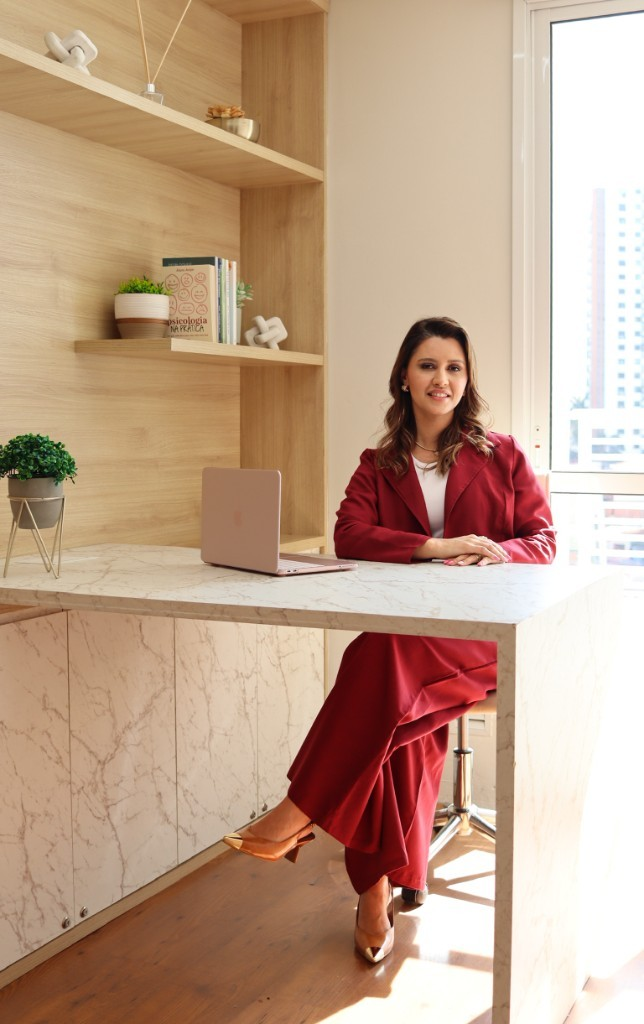
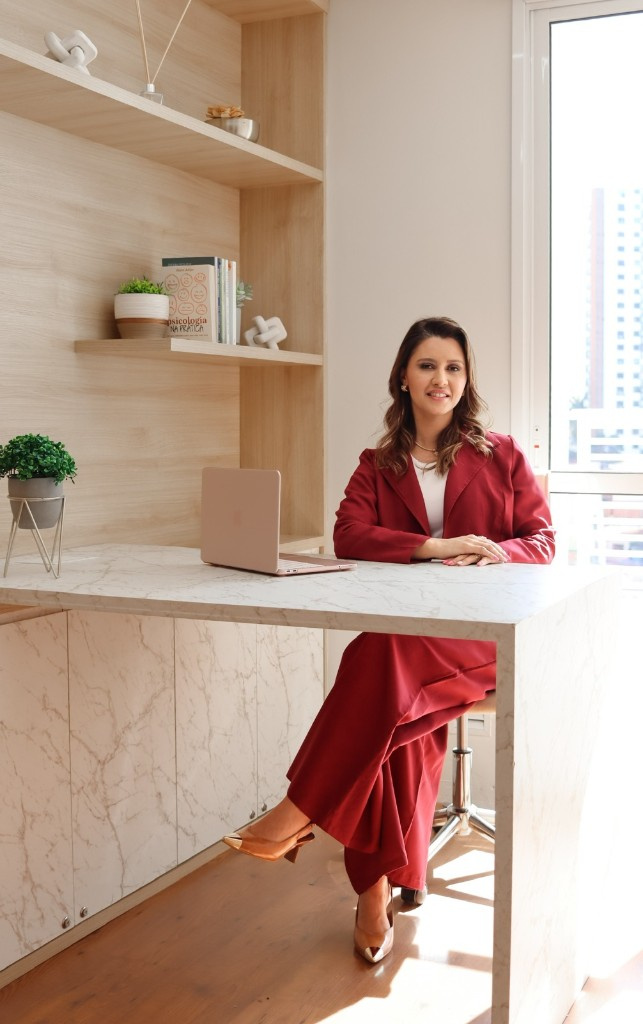
Replace the home hero with the new office photo and a cream left fade.
Keep Thais's original face on the right and extend only the left with a matching gradient for the headline.

diff --git a/index.html b/index.html
@@ -83,7 +83,7 @@
     <main id="conteudo">
       <section class="hero hero-cover hero-zoom-soft" id="topo">
         <div class="hero-cover-frame">
-          <img class="hero-cover-img" src="assets/photos/home-inicio-wide.jpg" alt="" width="1536" height="1024" fetchpriority="high" />
+          <img class="hero-cover-img" src="assets/photos/home-inicio-wide.jpg?v=grad1" alt="" width="1536" height="1024" fetchpriority="high" />
         </div>
         <div class="hero-inner">
           <div class="hero-copy">
